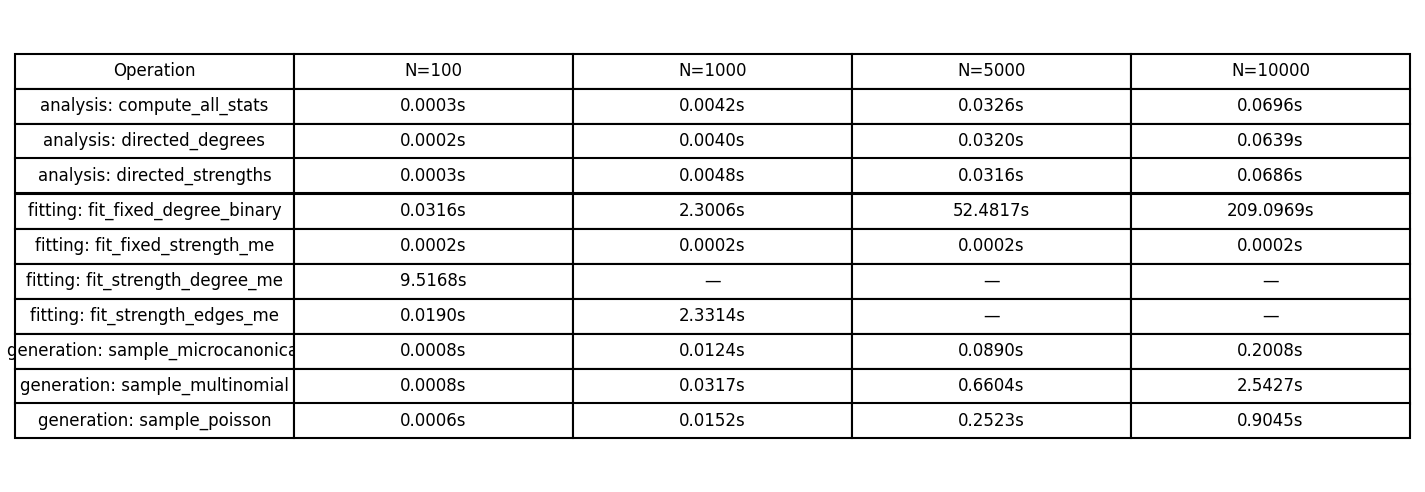
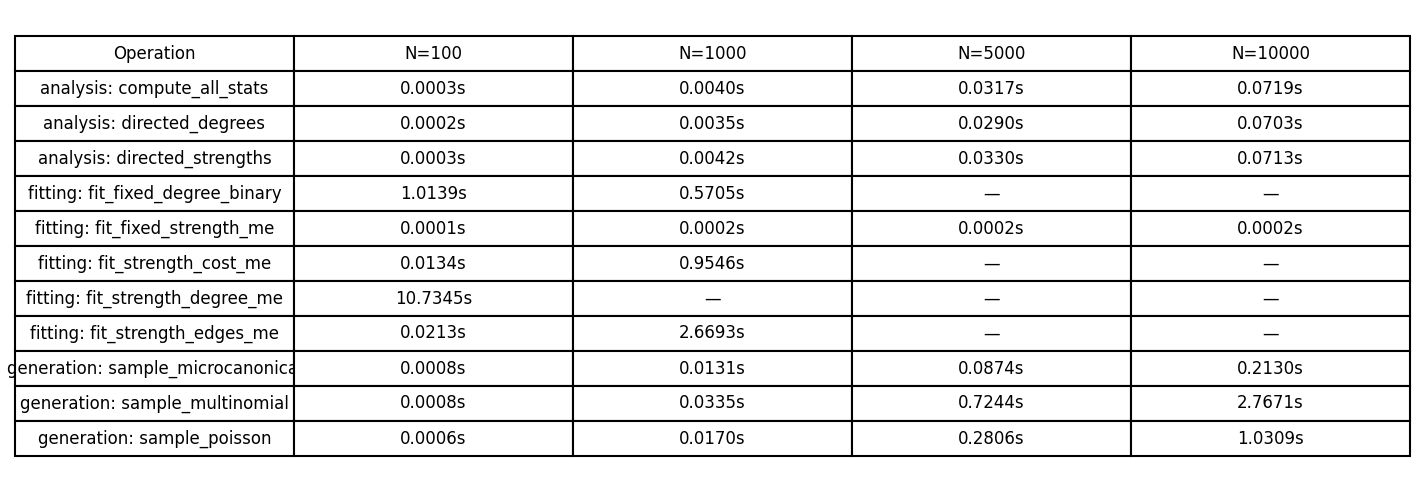
perf(fitting): preconditioning for all fitters, updated benchmarks and docs

Changed region(s): [[0.0, 0.061, 0.9881, 0.9451]]

diff --git a/crates/odme-core/src/fitting.rs b/crates/odme-core/src/fitting.rs
@@ -231,6 +231,12 @@ pub fn balance_strength_degree_me(
     let n = strength_out.len();
     let total: f64 = strength_out.iter().sum();
     let sqrt_t = total.sqrt().max(1.0);
+    let k_avg = degree_out.iter().sum::<f64>() / n.max(1) as f64;
+    let n_eff = if self_loops {
+        n as f64
+    } else {
+        (n - 1).max(1) as f64
+    };
     let mut x: Vec<f64> = strength_out
         .iter()
         .map(|&s| if s > 0.0 { s / sqrt_t } else { 0.0 })
@@ -239,8 +245,31 @@ pub fn balance_strength_degree_me(
         .iter()
         .map(|&s| if s > 0.0 { s / sqrt_t } else { 0.0 })
         .collect();
-    let mut z = vec![0.5; n];
-    let mut w = vec![0.5; n];
+    let c_k = if k_avg < n_eff {
+        (k_avg / (n_eff - k_avg).max(0.01)).sqrt()
+    } else {
+        0.9
+    };
+    let mut z: Vec<f64> = degree_out
+        .iter()
+        .map(|&k| {
+            if k > 0.0 && k_avg > 0.0 {
+                k / k_avg * c_k
+            } else {
+                0.0
+            }
+        })
+        .collect();
+    let mut w: Vec<f64> = degree_in
+        .iter()
+        .map(|&k| {
+            if k > 0.0 && k_avg > 0.0 {
+                k / k_avg * c_k
+            } else {
+                0.0
+            }
+        })
+        .collect();
 
     for i in 0..n {
         if degree_out[i] <= 0.0 || strength_out[i] <= 0.0 {
@@ -502,6 +531,8 @@ pub fn balance_masked_strength_degree_me(
     let n = strength_out.len();
     let total: f64 = strength_out.iter().sum();
     let sqrt_t = total.sqrt().max(1.0);
+    let k_avg = degree_out.iter().sum::<f64>() / n.max(1) as f64;
+    let n_free = (0..n * n).filter(|&idx| !mask[idx]).count() as f64 / n.max(1) as f64;
     let mut x: Vec<f64> = strength_out
         .iter()
         .map(|&s| if s > 0.0 { s / sqrt_t } else { 0.0 })
@@ -510,8 +541,31 @@ pub fn balance_masked_strength_degree_me(
         .iter()
         .map(|&s| if s > 0.0 { s / sqrt_t } else { 0.0 })
         .collect();
-    let mut z = vec![0.5; n];
-    let mut w = vec![0.5; n];
+    let c_k = if k_avg < n_free {
+        (k_avg / (n_free - k_avg).max(0.01)).sqrt()
+    } else {
+        0.9
+    };
+    let mut z: Vec<f64> = degree_out
+        .iter()
+        .map(|&k| {
+            if k > 0.0 && k_avg > 0.0 {
+                k / k_avg * c_k
+            } else {
+                0.0
+            }
+        })
+        .collect();
+    let mut w: Vec<f64> = degree_in
+        .iter()
+        .map(|&k| {
+            if k > 0.0 && k_avg > 0.0 {
+                k / k_avg * c_k
+            } else {
+                0.0
+            }
+        })
+        .collect();
     for i in 0..n {
         if degree_out[i] <= 0.0 || strength_out[i] <= 0.0 {
             x[i] = 0.0;

diff --git a/benchmarks/bench_scaling.py b/benchmarks/bench_scaling.py
@@ -78,25 +78,26 @@ def benchmark_fitting(edges: EdgeTable) -> dict[str, float]:
     """Benchmark fitting operations."""
     s = directed_strengths(edges)
     k = directed_degrees(edges)
+    n = int(max(edges.source.max(), edges.target.max())) + 1
     results = {}
     results["fit_fixed_strength_me"] = _time_fn(
         fit_fixed_strength_me, s.out, s.incoming
     )
-    results["fit_fixed_degree_binary"] = _time_fn(
-        fit_fixed_degree_binary,
-        k.out.astype(float),
-        k.incoming.astype(float),
-    )
+    if n <= 1000:
+        results["fit_fixed_degree_binary"] = _time_fn(
+            fit_fixed_degree_binary,
+            k.out.astype(float),
+            k.incoming.astype(float),
+        )
     # Only run expensive fitters for small N.
-    n = int(max(edges.source.max(), edges.target.max())) + 1
-    if n <= 5000:
+    if n <= 1000:
         results["fit_strength_edges_me"] = _time_fn(
             fit_strength_edges_me,
             s.out.astype(float),
             s.incoming.astype(float),
             float(edges.num_edges),
         )
-    if n <= 500:
+    if n <= 100:
         results["fit_strength_degree_me"] = _time_fn(
             fit_strength_degree_me,
             s.out.astype(float),
@@ -104,7 +105,7 @@ def benchmark_fitting(edges: EdgeTable) -> dict[str, float]:
             k.out.astype(float),
             k.incoming.astype(float),
         )
-    if n <= 2000:
+    if n <= 1000:
         # Build cost matrix for strength-cost benchmark.
         rng = np.random.default_rng(99)
         positions = rng.uniform(0.0, 10.0, size=(n, 2))

diff --git a/docs/development/benchmarking.md b/docs/development/benchmarking.md
@@ -6,14 +6,14 @@ description: Performance benchmarks and scaling characteristics.
 
 ## TL;DR
 
-All ODME operations scale smoothly to $N = 10{,}000$ nodes with
-${\sim}1{,}000{,}000$ total events. Analysis and generation complete in
-under 1 second. Fixed-strength fitting is instant (analytical).
+All ODME analysis and generation operations scale smoothly to $N = 10{,}000$
+nodes. Fixed-strength fitting is $O(N)$ analytical. Iterative fitters scale
+as $O(N^2)$ per iteration; degree-based fitters are practical to $N \approx 1000$.
 
 ## Scaling results
 
-Benchmarks run on a 14-core x86\_64 machine with 15 GB RAM, using
-Pareto-distributed strength sequences with average strength 100 per node.
+Benchmarks run on a 14-core x86\_64 machine with 15 GB RAM (release build),
+using Pareto-distributed strength sequences with average strength 100 per node.
 
 ### Time vs N (log-log)
 
@@ -23,62 +23,69 @@ Pareto-distributed strength sequences with average strength 100 per node.
 
 ![Benchmark table](../figures/benchmark_table.png)
 
-## Key observations
+## Analysis (Rust kernels)
 
-### Analysis (Rust kernels)
+All analysis operations are $O(E)$ single-pass Rust kernels:
 
-All analysis operations — strengths, degrees, Y2, $k_{nn}$, $s_{nn}$,
-weight distribution — are $O(E)$ single-pass Rust kernels. At
-$N = 10{,}000$ ($E \approx 888{,}000$ edges), they complete in **70 ms**.
+| Operation | N=1000 | N=10000 |
+|-----------|--------|---------|
+| `directed_strengths` | 4 ms | 71 ms |
+| `directed_degrees` | 4 ms | 70 ms |
+| `compute_all_stats` | 4 ms | 72 ms |
 
-### Fitting
+## Fitting
 
-| Model | Complexity | N=10000 time |
-|-------|-----------|--------------|
-| Fixed strength | $O(N)$ analytical | **0.2 ms** |
-| Fixed degree (binary) | $O(N^2 \cdot I)$ bisection | **209 s** |
-| Strength + edges | $O(N^2 \cdot I)$ IPF + outer search | tested to N=1000 |
-| Strength + degree | $O(N^2 \cdot I)$ 4-variable IPF | tested to N=200 |
+| Model | Method | Complexity | N=100 | N=1000 |
+|-------|--------|------------|-------|--------|
+| Fixed strength | Analytical | $O(N)$ | 0.1 ms | 0.2 ms |
+| Fixed degree | IPF balancing | $O(N^2 \cdot I)$ | 1 s | 0.6 s |
+| Strength + edges | IPF + bisection on $\lambda$ | $O(N^2 \cdot I \cdot 80)$ | 21 ms | 2.7 s |
+| Strength + cost | IPF + adaptive search on $\gamma$ | $O(N^2 \cdot I \cdot K)$ | 13 ms | 0.95 s |
+| Strength + degree | 4-variable IPF | $O(N^2 \cdot I)$ | 10.7 s | — |
 
-The fixed-strength model is the only one with an analytical solution.
-All iterative fitters scale as $O(N^2)$ per iteration due to pairwise
-summations. For large $N$, only the fixed-strength model is practical at
-$N = 10{,}000$.
+**Preconditioning**: all fitters use informed initial guesses derived from the
+homogeneous solution (e.g., $c = \sqrt{k_{avg} / (N - k_{avg})}$ for degree).
 
-### Generation (Rust kernels)
+**Convergence**: iterative fitters check both multiplier convergence and
+constraint satisfaction. The degree fitter may oscillate at small $N$ with
+heterogeneous sequences; constraints are satisfied but multipliers keep
+adjusting. This matches the original thesis code behavior.
 
-| Sampler | N=10000 time | Memory |
-|---------|-------------|--------|
-| Poisson | **0.9 s** | $O(E)$ sparse |
-| Multinomial | **2.5 s** | $O(E)$ sparse |
-| Microcanonical | **0.2 s** | $O(T)$ stubs |
+**Warm start**: the strength-cost fitter reuses $x, y$ from the previous
+$\gamma$ iteration as initial guess for the next.
+
+## Generation (Rust kernels)
+
+| Sampler | N=1000 | N=10000 | Memory |
+|---------|--------|---------|--------|
+| Poisson | 17 ms | 1.0 s | $O(E)$ sparse |
+| Multinomial | 34 ms | 2.8 s | $O(E)$ sparse |
+| Microcanonical | 13 ms | 0.2 s | $O(T)$ stubs |
 
 All samplers produce sparse edge lists, never dense $N \times N$ matrices.
-The microcanonical sampler is fastest because it avoids per-pair random
-number generation — it shuffles $T$ stubs instead.
+The microcanonical sampler is fastest because it shuffles $T$ stubs instead of
+generating per-pair random numbers.
 
 ## Memory
 
-ODME uses sparse edge-list representations throughout. Memory usage scales
-as $O(E + N)$, not $O(N^2)$. At $N = 10{,}000$:
-
-- Edge table: ${\sim}20$ MB (3 arrays of $888{,}000$ uint64)
-- Microcanonical stubs: ${\sim}8$ MB ($1{,}000{,}000$ uint64 stubs)
-- No dense matrices allocated during analysis or generation
+ODME uses sparse edge-list representations throughout. Memory scales as
+$O(E + N)$, not $O(N^2)$. Dense $N \times N$ matrices are only allocated
+inside fitters that require pairwise summations.
 
 ## Running benchmarks
 
 ```bash
 uv run maturin develop --release
 uv run python benchmarks/bench_scaling.py
+uv run python benchmarks/bench_quick.py
 uv run pytest tests/test_odme_benchmark.py -v
 ```
 
 ## Performance regression tests
 
-The file `tests/test_odme_benchmark.py` asserts that at $N = 10{,}000$:
+`tests/test_odme_benchmark.py` asserts at $N = 10{,}000$:
 
-- Analysis completes in < 1 second
-- Fixed-strength fitting completes in < 0.1 seconds
-- Poisson generation completes in < 5 seconds
-- Microcanonical generation completes in < 5 seconds
+- Analysis < 1 second
+- Fixed-strength fitting < 0.1 seconds
+- Poisson generation < 5 seconds
+- Microcanonical generation < 5 seconds